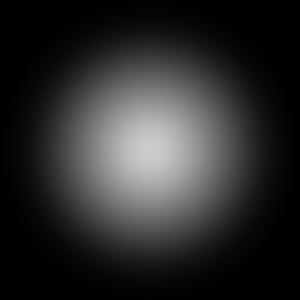
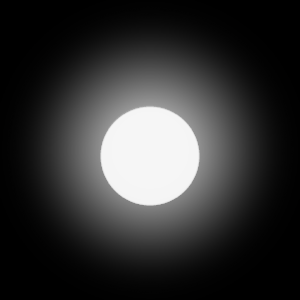
Better fog assets and a working movement system based on mouse input

Changed region(s): [[0.33, 0.33, 0.69, 0.69]]

diff --git a/PotentialMap.cpp b/PotentialMap.cpp
@@ -50,7 +50,7 @@ PotentialMap::PotentialMap(float width, float height, int w, int h) : p_width(wi
 
 
 
-    //renderPotentialMap = true;
+    renderPotentialMap = true;
 
     //sobjs.push_back(new WaterFountain(300, 200, 200, 200));
     sobjs.push_back(new SceneTexture(100, 200, 190/3, 269/3, "Assets/tree.png"));
@@ -133,12 +133,21 @@ void PotentialMap::render(sf::RenderWindow* window) {
 
 
 void PotentialMap::update(float timestep) {
+
+    //for (int i = 450; i < 550; i++) {
+        //for (int j = 0; j < 600; j++) {
+            //grid[i][j] = -500;
+        //}
+    //}
+
+
+
     static float t = 0;
     t += timestep;
     if (t > 15.0f) t = 15.0f;
     bool er = false;
     float posi = (float)rand()/RAND_MAX;
-    while (posi > (1.0 - 0.3*timestep*60) && t < 1.0f) {
+    while (posi > (1.0 - 0.3*timestep*60) && t < 5.0f) {
         er = true;
         float bx = (float)rand()/RAND_MAX;
         bx *= 800;
@@ -154,10 +163,6 @@ void PotentialMap::update(float timestep) {
         i->update(timestep);
     }
     for (auto &i : boids) {
-        sf::Vector2f ipos = i->getPosition();
-        float ang = atan2(gather_y - ipos.y, gather_x - ipos.x);
-        float dis = sqrt(pow(gather_y - ipos.y,2) + pow(gather_x - ipos.x, 2));
-        //i->calculate_forces(&boids, sf::Vector2f(cos(ang), sin(ang)));
         i->calculate_forces(&boids, this->calculatePotentialFieldForce(i->getPosition()));
         i->update(timestep);
     }
@@ -186,11 +191,10 @@ void PotentialMap::setDestinationGrid(sf::Vector2f pos) {
     }
 
     for (auto &i : boids) {
-        sf::Vector2i ipos = getGridIndex(i->getPosition());
-        if (testValidGridIndex(ipos)) {
-            grid[ipos.y][ipos.x] -= 10;
-        }
+        i->setActive(true);
+        i->setDestination(pos);
     }
+
 }
 
 
@@ -258,7 +262,6 @@ sf::Vector2f PotentialMap::calculatePotentialFieldForce(sf::Vector2f pos) {
 
 void PotentialMap::updateFOG() {
     fog_of_war_t.clear(sf::Color(100.0f, 100.0f, 100.0f, 180.0f));
-    //fog_of_war_t.clear(sf::Color(255.f, 255.f, 255.f, 20.0f));
 
     for (auto &i : boids) {
         //i->renderFOG(&fog_of_war_t);

diff --git a/Boid.cpp b/Boid.cpp
@@ -13,7 +13,22 @@ Boid::Boid(float xpos, float ypos) {
     force = sf::Vector2f(0,0);
     max_speed = 50;
     max_force = 100;
+    isActive = false;
 
+}
+
+
+void Boid::setActive(bool b) {
+    isActive = b;
+}
+
+bool Boid::getActiveState() {
+    return isActive;
+}
+
+
+void Boid::setDestination(sf::Vector2f desti) {
+    this->desti = desti;
 }
 
 sf::Vector2f Boid::limitVector(sf::Vector2f vec, float max) {
@@ -38,6 +53,9 @@ sf::Vector2f Boid::getSpeed() {
 }
 
 void Boid::update(float timestep) {
+    if (abs(desti.x - location.x) + abs(desti.y - location.y) < 50.0f) {
+        isActive = false;
+    }
     calculate_speed(timestep);
     update_position(timestep);
 
@@ -85,12 +103,20 @@ void Boid::calculate_forces(std::vector<Boid*> *boids, sf::Vector2f dir) {
     float ndist = 50;
     sf::Vector2f align_force(0,0);
     count = 0;
+    int account = 0;
     for (auto &i : *boids) {
         float dis = this->getDistance(i);
         if (dis > 0 && dis < ndist) {
+            if (!i->getActiveState()) {
+                account += 1;
+            }
             align_force += limitVector(i->getSpeed(), 1);
             count ++;
         }
+    }
+
+    if (account > count/2) {
+        isActive = false;
     }
 
     if (count > 0) {
@@ -145,10 +171,13 @@ void Boid::calculate_forces(std::vector<Boid*> *boids, sf::Vector2f dir) {
     //dest_force = limitVector(dest_force, max_force);
 
 
-    force += 5.5f * sep_force;
-    force += 0.01f * align_force;
-    force += 0.1f * cohesion_force;
-    force += 0.05f * dest_force;
+    force += 1.5f * sep_force;
+    if (isActive) {
+        force += 4.0f * sep_force;
+        force += 0.005f * align_force;
+        force += 0.1f * cohesion_force;
+        force += 0.05f * dest_force;
+    }
     force *= 1000.0f;
 
 
@@ -157,7 +186,7 @@ void Boid::calculate_forces(std::vector<Boid*> *boids, sf::Vector2f dir) {
 
 
 void Boid::calculate_speed(float timestep) {
-    speed *= 0.998f;
+    speed = speed - timestep*speed;
     speed += force*timestep;
     speed = limitVector(speed, max_speed);
 }

diff --git a/main.cpp b/main.cpp
@@ -63,15 +63,15 @@ int main()
 
 
         
-        
+        if (sf::Mouse::isButtonPressed(sf::Mouse::Button::Right)) {
+            pm->setDestinationGrid(preMouse);
+        }
 
 
         
         sf::Vector2i position = sf::Mouse::getPosition(window);
         preMouse = window.mapPixelToCoords(position, view);
 
-        pm->setDestinationGrid(preMouse);
-        pm->setGatherPoint(preMouse.x, preMouse.y);
 
         position = pm->getGridIndex(preMouse);
         //std::cout << "Current position: " << position.x << " " << position.y << std::endl;

diff --git a/Boid.h b/Boid.h
@@ -19,6 +19,9 @@ class Boid {
         sf::Vector2f getPosition();
         sf::Vector2f limitVector(sf::Vector2f vec, float max);
         sf::Vector2f getSpeed();
+        void setDestination(sf::Vector2f desti);
+        void setActive(bool b);
+        bool getActiveState();
 
 
     private:
@@ -30,4 +33,9 @@ class Boid {
         sf::Vector2f speed;
         sf::Vector2f force;
         sf::Vector2f pf;
+
+
+        bool isActive;
+
+        sf::Vector2f desti;
 };
